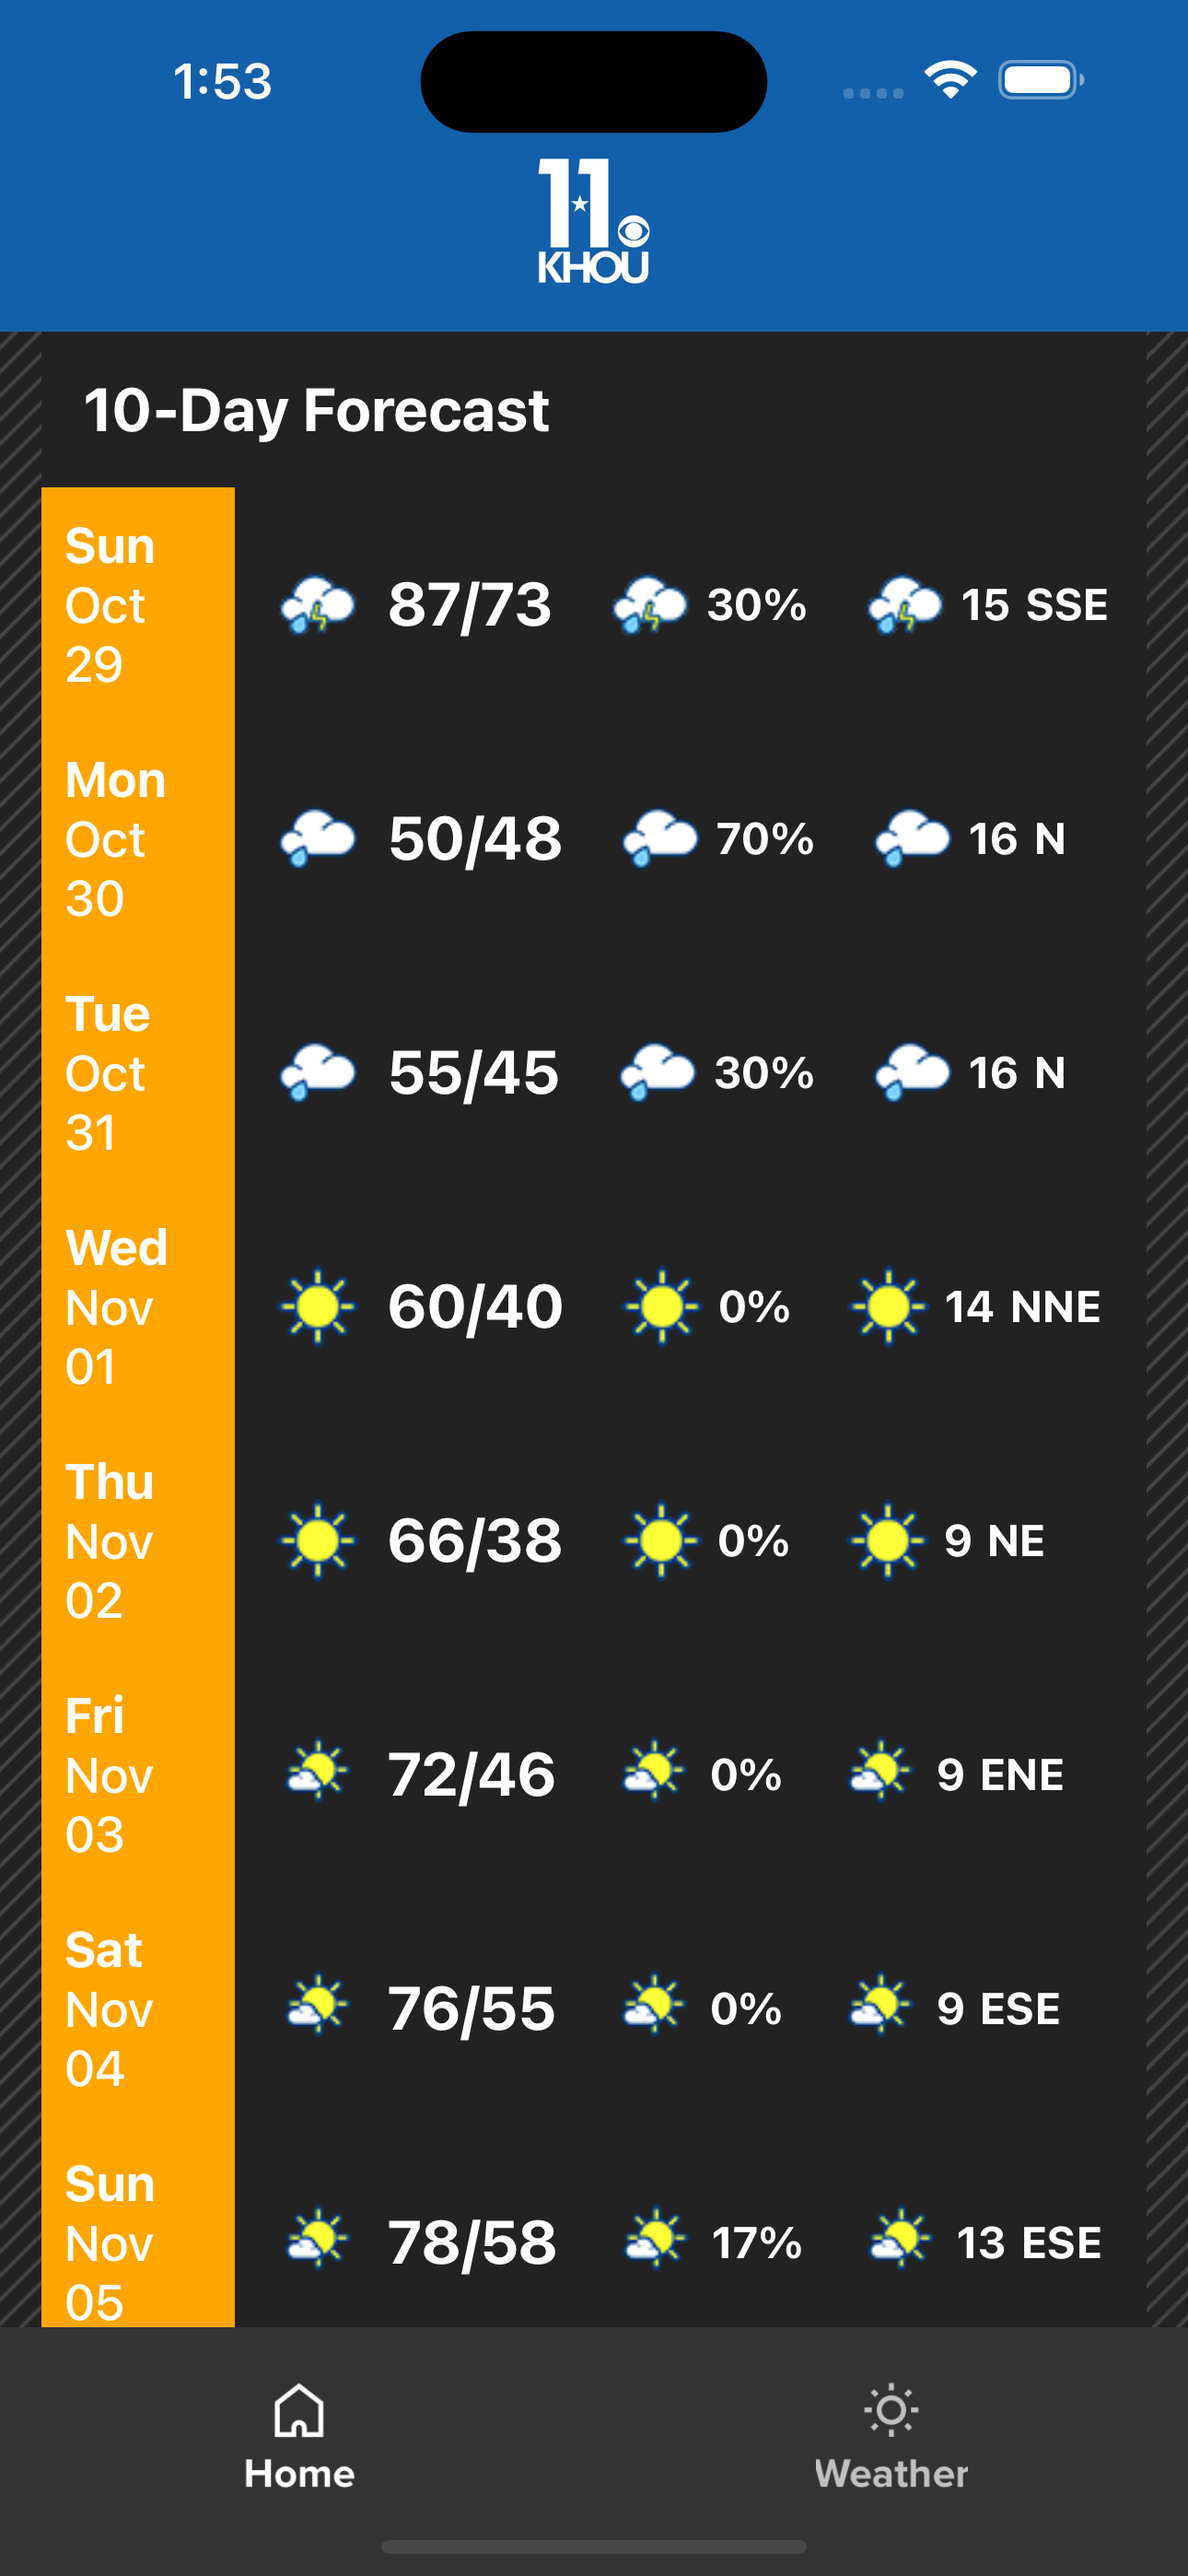
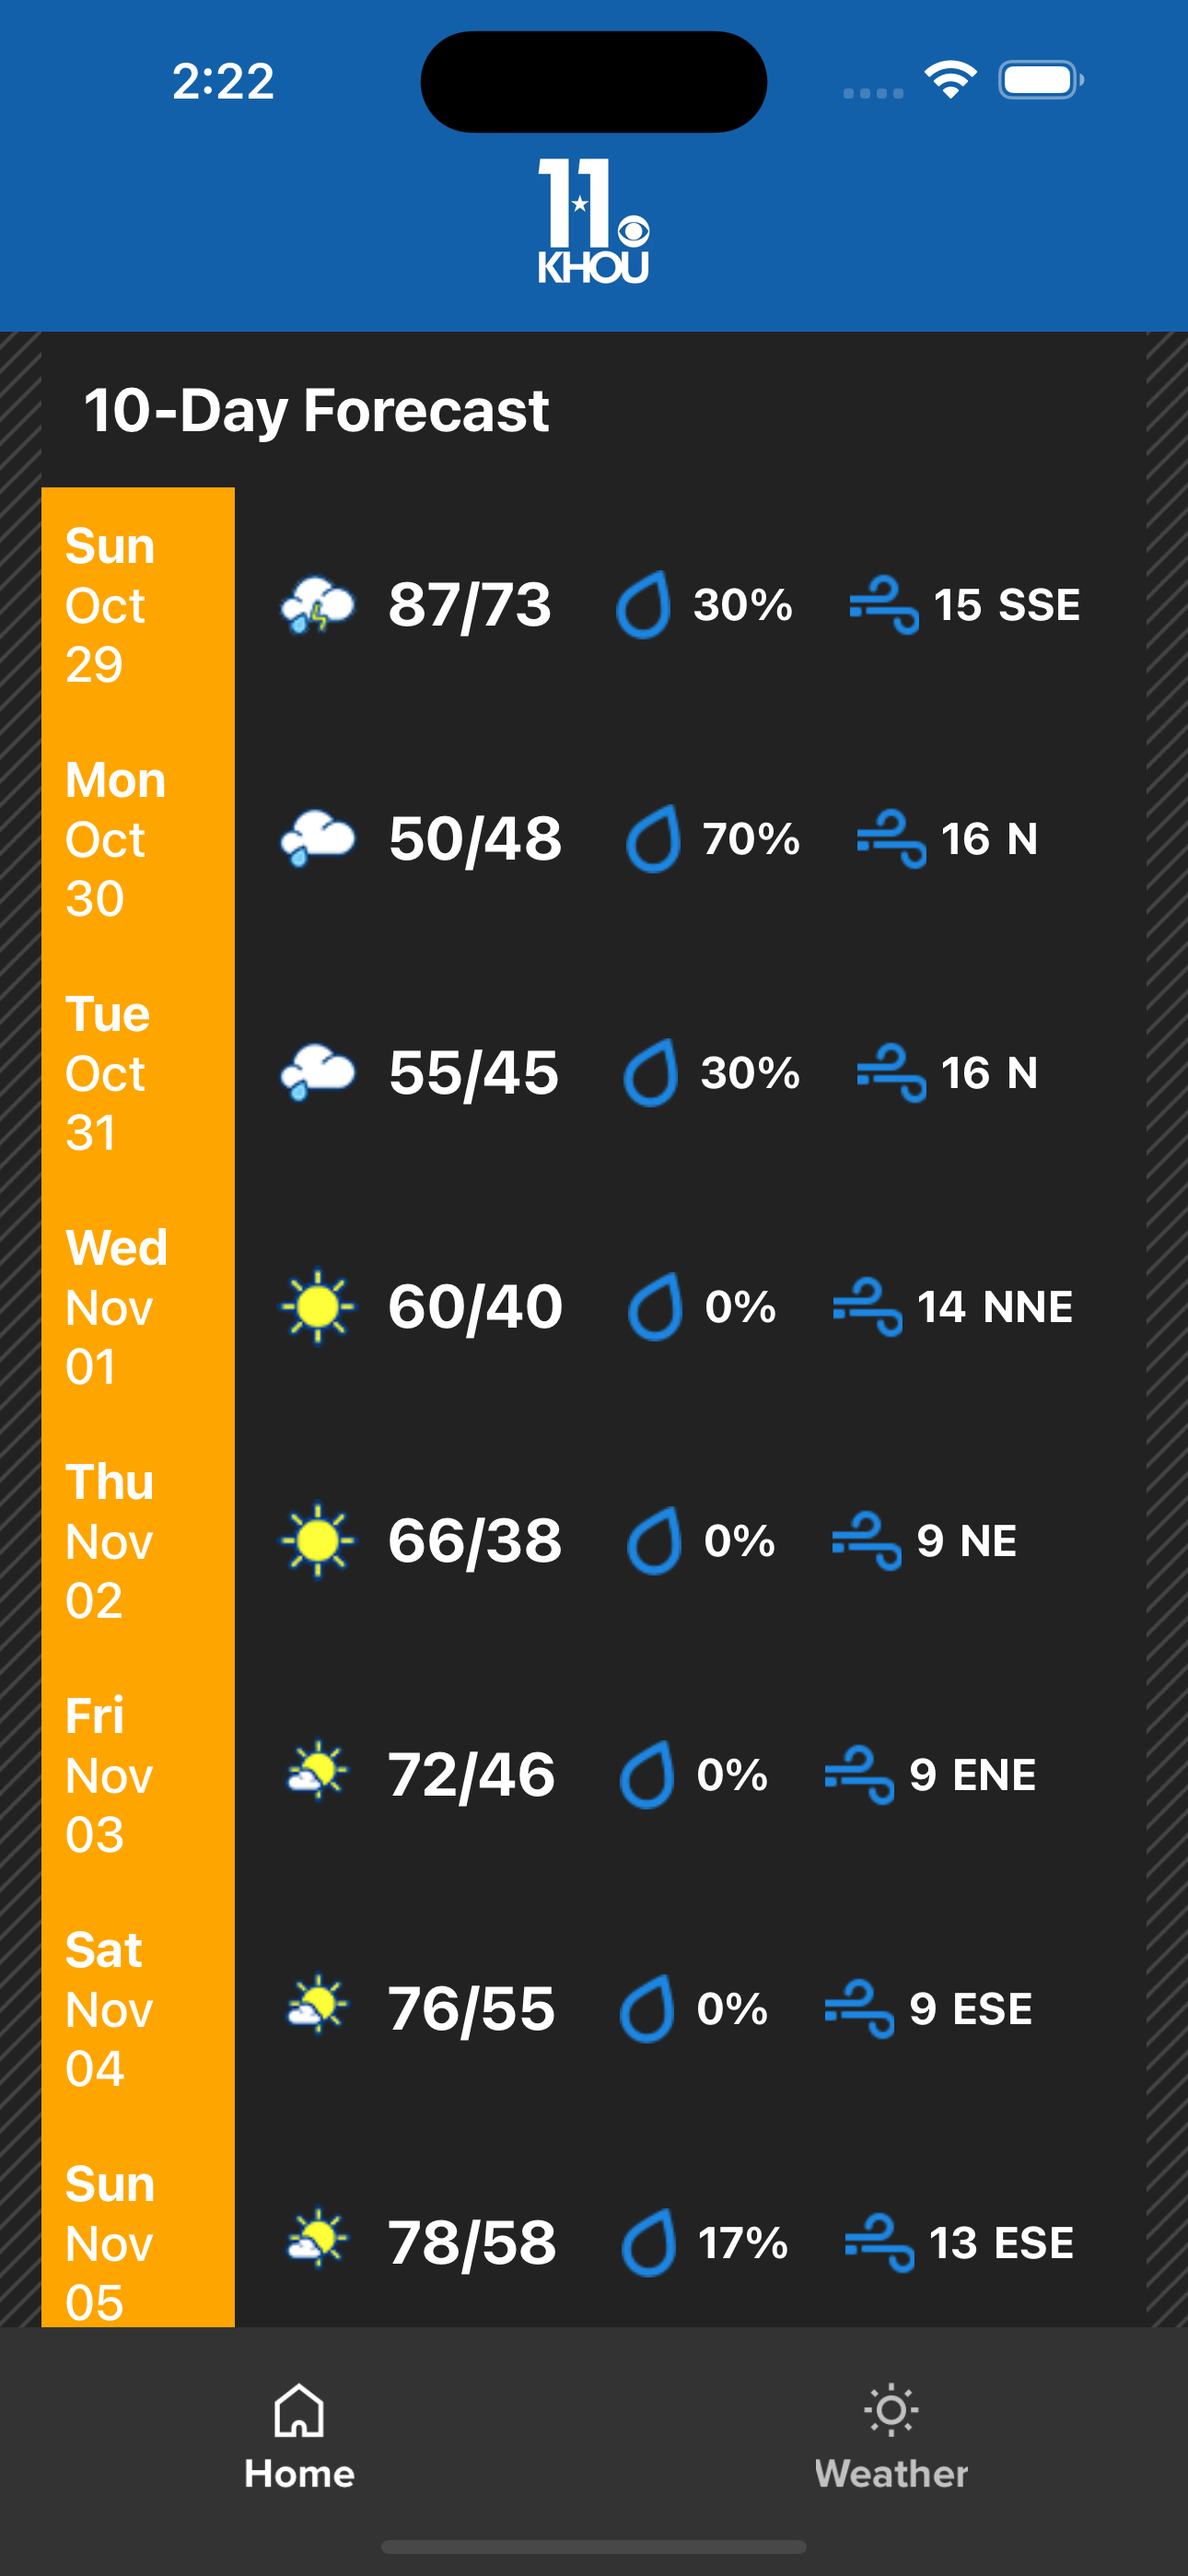
Weather updates

diff --git a/KHOU/components/WeatherFeed.tsx b/KHOU/components/WeatherFeed.tsx
@@ -19,7 +19,7 @@ const {height} = Dimensions.get('window');
 
 const local = 'http://localhost:9999';
 
-function Weather() {
+function WeatherFeed() {
   const {loading, error, value} = useFetch(local, {}, []);
   const theme = useSelector((state: RootStateOrAny) => state.prefs.theme);
 
@@ -33,9 +33,15 @@ function Weather() {
 
         {loading ? (
           <View style={styles.loading}>
-            <Text style={styles.loadingTxt}>Loading...</Text>
+            <Text
+              style={[
+                styles.loadingTxt,
+                {color: theme == 'dark' ? 'white' : '#222'},
+              ]}>
+              Loading...
+            </Text>
           </View>
-        ) : value ? (
+        ) : value && value.length ? (
           <View>
             <View
               style={{
@@ -69,10 +75,14 @@ function Weather() {
             />
           </View>
         ) : error ? (
-          <View>
-            <View style={styles.loading}>
-              <Text style={styles.errorTxt}>error</Text>
-            </View>
+          <View style={styles.loading}>
+            <Text
+              style={[
+                styles.errorTxt,
+                {color: theme == 'dark' ? 'white' : '#222'},
+              ]}>
+              Local NGROK server offine.
+            </Text>
           </View>
         ) : null}
       </ImageBackground>
@@ -99,4 +109,4 @@ const styles = StyleSheet.create({
   errorTxt: {fontSize: 22},
 });
 
-export default Weather;
+export default WeatherFeed;

diff --git a/KHOU/components/WeatherItem.tsx b/KHOU/components/WeatherItem.tsx
@@ -42,6 +42,7 @@ function WeatherItem({weatherItem, storyIndex}: any) {
             style={styles.feedImg}
             width={30}
             height={30}
+            resize={'contain'}
           />
           <Text
             style={{
@@ -55,10 +56,11 @@ function WeatherItem({weatherItem, storyIndex}: any) {
           </Text>
 
           <CacheImage
-            uri={weatherItem.condition}
+            uri={'https://www.khou.com/images/weather-10-day/rain.png'}
             style={styles.feedImg}
-            width={30}
-            height={30}
+            width={25}
+            height={25}
+            resize={'contain'}
           />
           <Text
             style={{
@@ -71,10 +73,11 @@ function WeatherItem({weatherItem, storyIndex}: any) {
             {weatherItem.precipitations}
           </Text>
           <CacheImage
-            uri={weatherItem.condition}
+            uri={'https://www.khou.com/images/weather-10-day/wind.png'}
             style={styles.feedImg}
-            width={30}
-            height={30}
+            width={25}
+            height={25}
+            resize={'cover'}
           />
           <Text
             style={{

diff --git a/KHOU/navigation/Navigation.tsx b/KHOU/navigation/Navigation.tsx
@@ -6,7 +6,7 @@ import MyTabBar from './TabBar';
 import HomeFeed from '../components/HomeFeed';
 import StoryView from '../components/StoryView';
 import Preferences from '../components/Preferences';
-import Weather from '../components/Weather';
+import WeatherFeed from '../components/WeatherFeed';
 
 const AppTab = createBottomTabNavigator();
 const AppTabScreen = () => {
@@ -15,7 +15,7 @@ const AppTabScreen = () => {
       initialRouteName="HomeFeed"
       tabBar={(props: any) => <MyTabBar {...props} />}>
       <AppTab.Screen name="RootStackScreen" component={RootStackScreen} />
-      <AppTab.Screen name="WeatherScreen" component={Weather} />
+      <AppTab.Screen name="WeatherScreen" component={WeatherFeed} />
     </AppTab.Navigator>
   );
 };

diff --git a/KHOU/components/HomeFeed.tsx b/KHOU/components/HomeFeed.tsx
@@ -57,16 +57,14 @@ function HomeFeed() {
             snapToInterval={height}
           />
         ) : error ? (
-          <View>
-            <View style={styles.loading}>
-              <Text
-                style={[
-                  styles.errorTxt,
-                  {color: theme == 'dark' ? 'white' : '#222'},
-                ]}>
-                error
-              </Text>
-            </View>
+          <View style={styles.loading}>
+            <Text
+              style={[
+                styles.errorTxt,
+                {color: theme == 'dark' ? 'white' : '#222'},
+              ]}>
+              Please connect to the internet.
+            </Text>
           </View>
         ) : null}
       </ImageBackground>

diff --git a/KHOU/components/FeedItem.tsx b/KHOU/components/FeedItem.tsx
@@ -37,6 +37,7 @@ function FeedItem({story, storyIndex}: any) {
                 style={styles.feedImg}
                 width={'100%'}
                 height={150}
+                resize={'cover'}
               />
               <View style={styles.padding}>
                 <Text

diff --git a/KHOU/components/CacheImage.tsx b/KHOU/components/CacheImage.tsx
@@ -51,5 +51,7 @@ export default CacheImage = props => {
     },
   });
 
-  return <Image style={styles.feedImg} source={source} resizeMode="cover" />;
+  return (
+    <Image style={styles.feedImg} source={source} resizeMode={props.resize} />
+  );
 };

diff --git a/README.md b/README.md
@@ -13,7 +13,7 @@ Features:
 - Custom Tab bar
 - Redux state management
 - Light and dark mode
-- Python webscraper to pull 10-day weather from KHOU website
+- Python web scraper that pulls 10-day weather forecast from KHOU website
 
 <img src="KHOU/images/1-splash.png" width="300"/>
 <img src="KHOU/images/2-feed.png" width="300"/>
